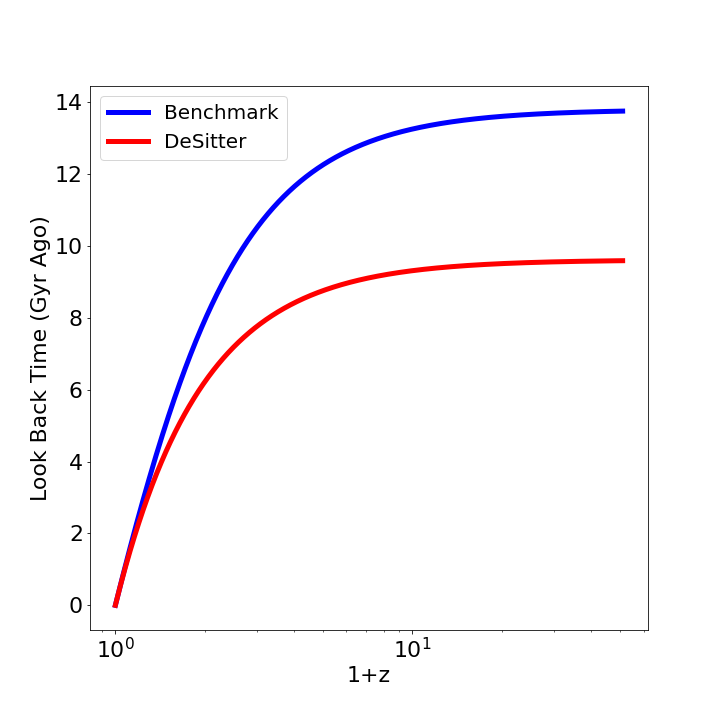
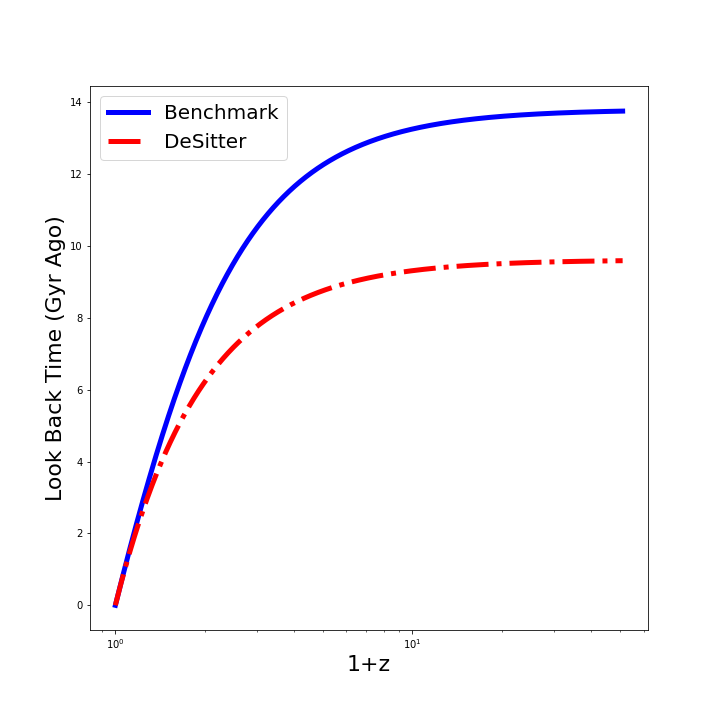
Uploading Lab11

diff --git a/Lab11/Lab11.py b/Lab11/Lab11.py
@@ -318,16 +318,23 @@ class CosmologicalTools:
         # But need to correct units of 1/H to be Gyr rather than seconds  
         # use the astropy.units functionality .to(units)
         # FILL THIS IN 
-        
+        # Integrand
+        # y = (1/H(zrange)).to(GYR)  /  (1+zrange)
+        # But need to correct units of 1/H to be Gyr rather than seconds  
+        # use the astropy.units functionality .to(units)
+        # FILL THIS IN
         y = (1/self.HubbleParameter(zrange)).to(u.Gyr)/(1+zrange)
         
-        time = simps(y, zrange)*u.Gyr
-        
+        # Integrate y numerically over zrange and return in units of Gyr
+        # FILL THIS IN
+        time = simps(y,zrange)*u.Gyr
+
+        return time
         
         # Integrate y numerically over zrange and return in units of Gyr
         # FILL THIS IN 
 
-        return time
+         
     
     
     # Question 2 A) 
@@ -361,15 +368,28 @@ class CosmologicalTools:
         # Speed of light is loaded in modules from astropy, but in units of m/s --> need in km/s
         # FILL THIS IN
     
-        y = c.to(u.km/u.s) * (1/self.HubbleParameter(zrange))
         
     
         # Integrate y numerically over zrange and return in units of Mpc
         # FILL THIS IN 
+        # define an array with redshifts, spaced  in intervals of 0.001
+        # Note that if you want redshifts smaller than 0.001 you'll need to refine this
+        zrange = np.arange(zo, ze, 1e-3)
+    
         
-        DC = simps(y, zrange)*u.Mpc
+        # Integrand
+        # 1/H(zrange)*speed of light
+        # Speed of light is loaded in modules from astropy, but in units of m/s --> need in km/s
+        # FILL THIS IN
+        y = c.to(u.km/u.s)*(1/self.HubbleParameter(zrange))
+        
+        # Integrate y numerically over zrange and return in units of Mpc
+        # FILL THIS IN 
+        DC = simps(y,zrange)*u.Mpc
         
         return DC
+        
+         
     
     
     # Question 2 D) 
@@ -397,10 +417,11 @@ class CosmologicalTools:
     
         # Comoving Distance[ independent of time] x the scale factor at the time of observation.
         # FILL THIS IN 
-        
-        DH = self.ComovingDistance(zo, ze) / (1+zo)
-        
+        # Comoving Distance[ independent of time] x the scale factor at the time of observation.
+        # FILL THIS IN 
+        DH = self.ComovingDistance(zo,ze)/(1+zo)
         return DH
+       
 
  
     # Question 3 A)
@@ -423,10 +444,14 @@ class CosmologicalTools:
             Luminosity Distance (Mpc)
         """
 
+
         # FILL THIS IN
+        zo=0
+        DL = self.ComovingDistance(zo,ze)*(1+ze)
         
+        return DL
+    
         
-        return 
     
 
     # Question 4 A)
@@ -449,9 +474,11 @@ class CosmologicalTools:
             Angular Diameter Distance (Mpc)
         """
     
-        #  FILL THIS IN
-        
-        return      
+        zo = 0
+       #  FILL THIS IN
+        DA = self.ComovingDistance(zo,ze)/(1+ze)
+       
+        return DA   
     
     
     # Question 4 B) 
@@ -477,11 +504,11 @@ class CosmologicalTools:
         
         # convert angle from arcsec to radians
         angleRad = (angle*u.arcsec).to(u.rad)
-    
+        
         # FILL THIS IN
-     
-        return 
-    
+        size = self.AngularDiameterDistance(ze).to(u.kpc)*angleRad.value
+        
+        return size
     
 
 # ------------------- MAIN ---------------------- #
@@ -510,16 +537,13 @@ if __name__ == '__main__':
 
 
     # Define here an instance of the Class Cosmological Tools that follows the Benchmark Cosmology
-    
-    BenchMark = CosmologicalTools(OmegaM0_planck, OmegaR0_planck, OmegaL0_planck, h_planck)
 
+    BenchMark = CosmologicalTools(OmegaM0_planck,OmegaR0_planck,OmegaL0_planck,h_planck)
 
 
     # Define a New Instance of the Class with Einstein De Sitter Cosmology 
 
-    DeSitter = CosmologicalTools(OmegaMD, OmegaRD, OmegaLD, h_planck)
-
-
+    DeSitter = CosmologicalTools(OmegaMD,OmegaRD,OmegaLD,h_planck)
     # ##  Question 1 B) 
 
 
@@ -527,8 +551,6 @@ if __name__ == '__main__':
     # Question 1 B) 
 
     # How many Gyr ago was z=1 in the Benchmark cosmology?
-    
-    print(BenchMark.LookBackTime(1))
 
 
 
@@ -536,25 +558,20 @@ if __name__ == '__main__':
     # Question 1 B) 
 
     # What is the Age of the Universe in the Benchmark Cosmology  (put in a large z)
-
-
-    print(BenchMark.LookBackTime(1000))
+    print(BenchMark.LookBackTime(1))
 
 
 
     # What is the Age of the Universe in the Einstein De Sitter Cosmology
 
-    
-    print(DeSitter.LookBackTime(1000))
 
+    print(BenchMark.LookBackTime(1e4))
 
     # Inverse of the Hubble Parameter today is roughly the age of the universe. but not exactly.
-    
-    
 
 
     # ####  Which cosmology results in a younger universe?
-    # 
+    # Desitter
 
     # ## Question 1 C) 
     # 
@@ -581,16 +598,13 @@ if __name__ == '__main__':
     zrange = np.arange(zmin, zmax, 0.01)
 
 
-    
+
 
     # Create a list comprehension to compute an array of Look Back Time for each element in zrange
     # NOTE THIS GENERATES A LIST NOT AN ARRAY
 
-    TimeBenchMark = [BenchMark.LookBackTime(i).value for i in zrange]
-    
-    TimeDeSitter = [DeSitter.LookBackTime(i).value for i in zrange]
-    
-    
+    TimeBenchMark = np.array([BenchMark.LookBackTime(i).value for i in zrange])
+    TimeDeSitter = np.array([DeSitter.LookBackTime(i).value for i in zrange])
 
 
 
@@ -603,12 +617,13 @@ if __name__ == '__main__':
 
     # Look Back Time Benchmark
     # FILL THIS IN
-    plt.semilogx(zrange+1, TimeBenchMark ,color='blue', linewidth=5, label='Benchmark')
+    plt.semilogx(zrange+1, TimeBenchMark,  color='blue', linewidth=5, label='Benchmark')
 
 
     # Look Back Time Einstein De Sitter
     # FILL THIS IN
-    plt.semilogx(zrange+1 , TimeDeSitter, color='red', linewidth=5, label='DeSitter')
+    plt.semilogx(zrange+1, TimeDeSitter, color='red', linewidth=5, linestyle='-.', label='DeSitter')
+
 
 
     # Add axis labels
@@ -635,29 +650,20 @@ if __name__ == '__main__':
     # What is the size of the presently observable universe in the Benchmark cosmology ? (pick a large z)
 
 
-    print(BenchMark.ComovingDistance(0, 1000))
-    
-    print(BenchMark.ProperDistance(0, 1000))
-    
-    print(DeSitter.ComovingDistance(0, 1000))
-    
-    print(DeSitter.ProperDistance(0, 1000))
-
+    print(BenchMark.ComovingDistance(0,1e4))
 
     # Double Check that the size of the Comoving Distance and Proper Distance are the same
     # since the observer is at z=0 
 
-
+    print(BenchMark.ProperDistance(0,1e4))
 
 
     # What is the size of the presently observable universe in the Einstein De Sitter cosmology? (pick a large z)
 
+    print(DeSitter.ProperDistance(0,1e4))
 
 
-
-    # Which Universe is larger? 
-    
-    # DeSitter is smaller. 
+    # Which Universe is larger?  Benchmark
 
 
     # ## Question 2 D)
@@ -667,52 +673,39 @@ if __name__ == '__main__':
     # Consider two closely located 
     # galaxies on the sky, where one galaxy
     # is  at z=0.01 and the second galaxy is at z =0.05 
-    
-    z1 = 0.01
-    z2 = 0.05
-    
-    Dist_z1 = BenchMark.ComovingDistance(0, z1)
-    
-    Dist_z2 = BenchMark.ComovingDistance(0, z2)
-    
-    diff = Dist_z2 - Dist_z1
-    
-    print(diff)
-    
-    print(BenchMark.ProperDistance(z1, z2))
-    
-    
+    z1,z2 = 0.01,0.05
 
 
 
     # What is Line of Sight Distance between these galaxies today (z=0)? 
     # This is equivalent to the Comoving Distance or Proper Distance between the galaxies
 
-
+    Dist_z1 = BenchMark.ComovingDistance(0,z1)
+    Dist_z2 = BenchMark.ComovingDistance(0,z2)
+    print(Dist_z2-Dist_z1)
 
 
     # What is the Proper Distance between these two galaxies as measured by galaxy 1 (at z=0.01)?
 
-
+    print(BenchMark.ProperDistance(z1,z2))
     # ## Question 2 E)
 
 
 
     # What is the size of the observable universe at z=2? 
 
-    print(BenchMark.ProperDistance(2, 1000))
-    
-    
-    print(BenchMark.ProperDistance(2, 1000)/BenchMark.ProperDistance(0, 1000))
+    print(BenchMark.ProperDistance(2,1e4))
 
 
     # how much larger was the universe then vs now?
 
-
+    print(BenchMark.ProperDistance(2,1e4)/BenchMark.ProperDistance(0,1e4))
     # ##  Question 2 F)
     # Plot the Horizon Distance as a Function of Redshift out to z=10 for the BenchMark and Einstein DeSitter Cosmology
     # 
-
+    zmax = 10
+    zmin = 0.001
+    zrange2 = np.arange(zmin, zmax, 0.5)
 
 
     zmax = 10
@@ -726,8 +719,8 @@ if __name__ == '__main__':
     # We need to again use a list comprehension 
 
 
-    HorizonBench = [BenchMark.ProperDistance(i, 2000).value for i in zrange2]
-    HorizonDeSitter = [DeSitter.ProperDistance(i, 2000).value for i in zrange2]
+    HorizonBench = np.array([BenchMark.ProperDistance(i,2500).value for i in zrange2])
+    HorizonDeSitter = np.array([DeSitter.ProperDistance(i,2500).value for i in zrange2])
 
     # Plot the Horizon Distance as a Function of Redshift out to z=10
     ###############################################################################
@@ -738,9 +731,10 @@ if __name__ == '__main__':
 
     # Comoving Distance
     # FILL THIS IN
-    plt.semilogy(zrange2 + 1, HorizonBench, linewidth=5, label='BenchMark')
+    plt.semilogy(zrange2+1, HorizonBench, linewidth=5, label='BenchMark')
 
-    plt.semilogy(zrange2 + 1, HorizonDeSitter, linewidth=5, linestyle='--', label='DeSitter')
+    plt.semilogy(zrange2+1, HorizonDeSitter, linewidth=5, linestyle='--', label='DeSitter')
+
 
 
     # Add axis labels
@@ -768,40 +762,47 @@ if __name__ == '__main__':
     # 
     #  Using the Benchmark cosmology, determine this Supernova's redshift and its Proper Distance from us.
     # 
-
+    m = 25.1 # Apparent magnitude
+    M = -19.3 # Absolute magnitude of Type Ia supernova
 
 
     # Question 3 B) 
-
+    
+    
 
 
 
     # What is the Luminosity Distance? 
     # m-M = 5*log(DL/Mpc) + 25
 
-
+    
+    DL = np.around(10**((m-M-25)/5),1)*u.Mpc
+    print(DL)
 
 
     # Now reverse engineer the problem. What redshift gives you the computed Luminosity Distance? 
     # in reality the redshift is determined by identifying the redshift of the host.  
 
-
+    SNz = 1.09444
+    print(BenchMark.LuminosityDistance(1.09444))
 
 
     # What is the proper distance to this supernova given our current rate of expansion? 
-
+    print(BenchMark.ProperDistance(0,SNz))
+    print(BenchMark.ComovingDistance(0,SNz))
 
     # ## Question 4 C) 
 
 
-
+    
     # Question 4 C)  
 
     # Angle = Size/DA
     # What is the separation between two galaxies separated by 1 arcsec at z=1 in the Benchmark Cosmology
 
 
-
+    gal_sep = np.around(BenchMark.Size(1,1),1)
+    print(gal_sep)
 
 
 
